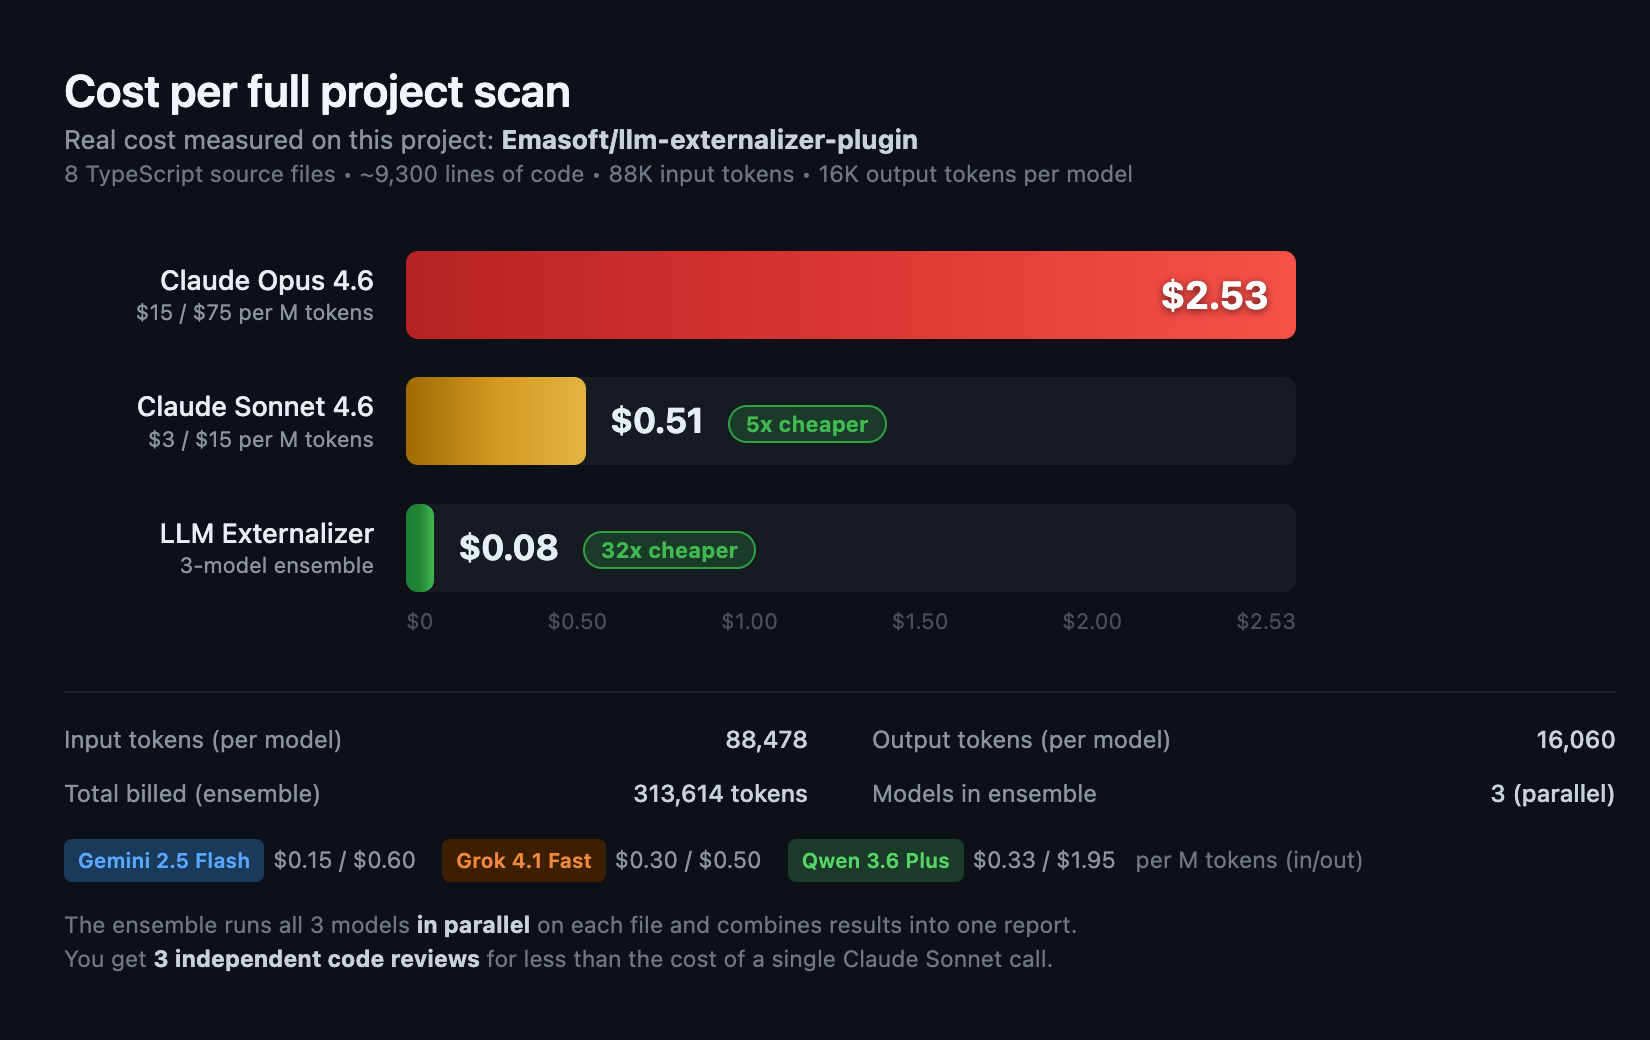
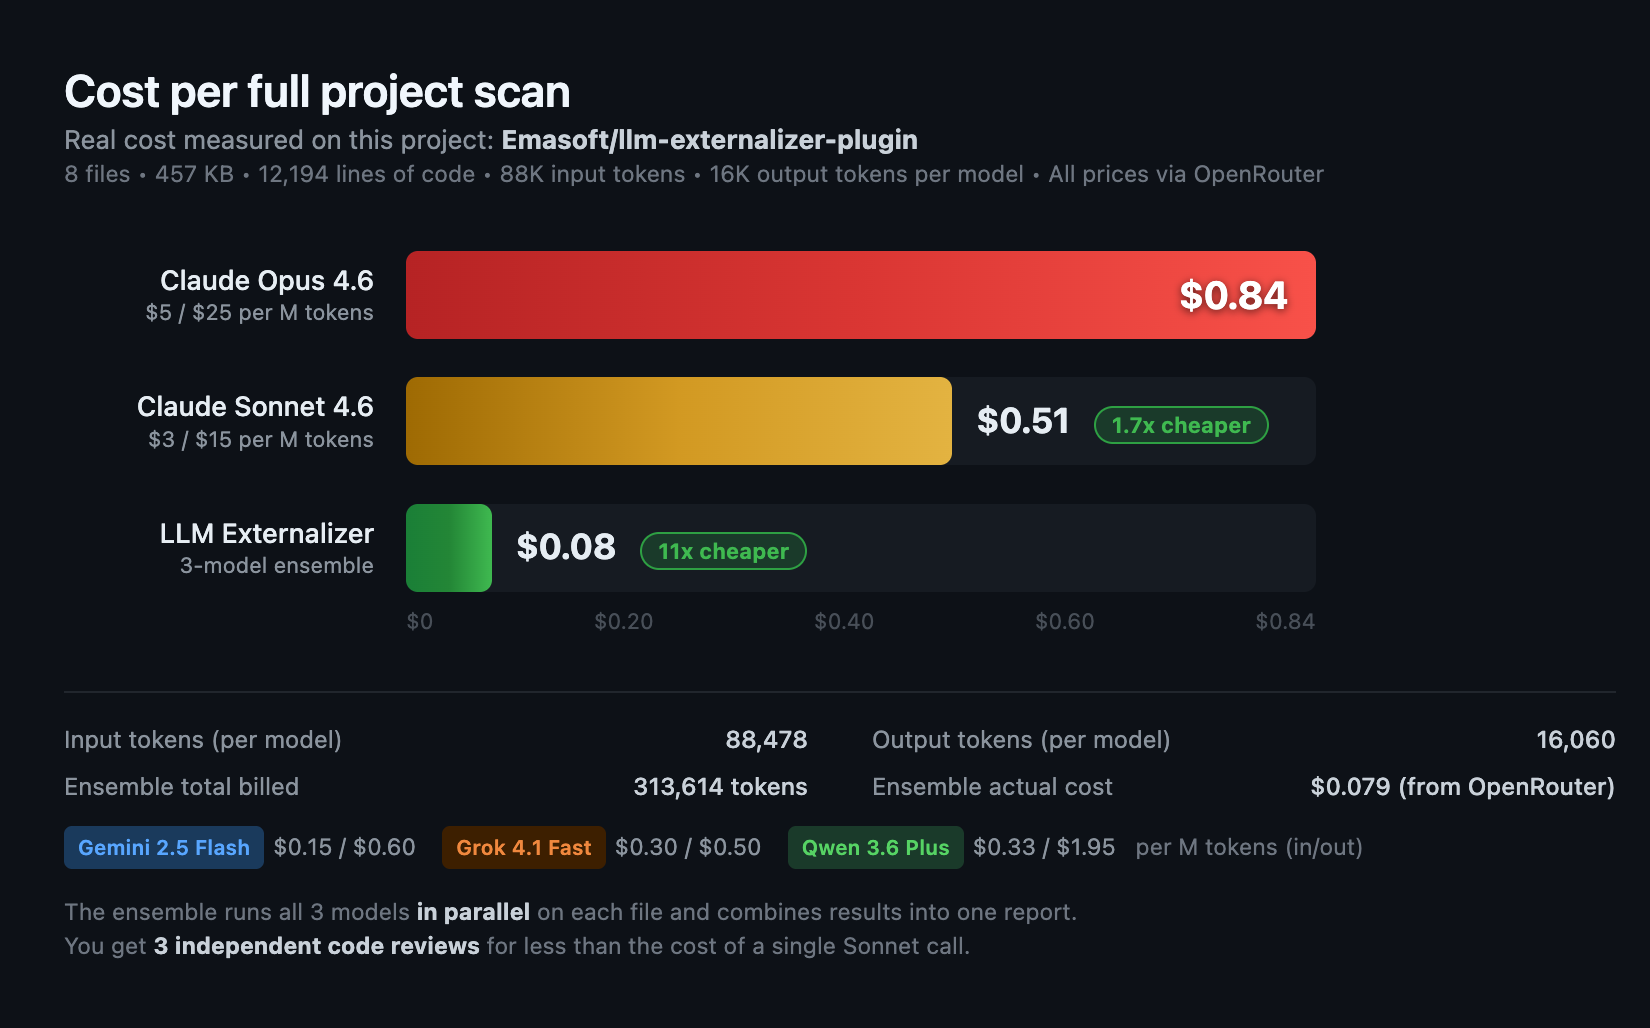
Fix cost chart: correct OpenRouter prices, move to top of README
Opus is $5/$25 on OpenRouter (not $15/$75 Anthropic direct).
Chart now shows file count, total KB, and actual ensemble cost
from OpenRouter billing. Moved chart to top of README under description.

diff --git a/README.md b/README.md
@@ -11,6 +11,10 @@
 
 A Claude Code plugin that offloads bounded LLM tasks to cheaper local or remote models via MCP. Supports local backends (LM Studio, Ollama, vLLM, llama.cpp) and remote backends (OpenRouter) with profile-based configuration and ensemble mode.
 
+### Cost comparison
+
+![Cost comparison: Opus $0.84, Sonnet $0.51, Ensemble $0.08](docs/cost_comparison.png)
+
 ## Features
 
 - **13 MCP tools** — 8 read-only analysis tools + 5 utility tools
@@ -99,10 +103,6 @@ Each group produces its own report: `[group:auth] /path/to/report_group-auth_...
 ### Ensemble mode
 
 On OpenRouter (`remote-ensemble` profile), requests run on **three models in parallel** with results combined in one report. If one or two models fail (removed, rate-limited, timed out), the report includes results from the surviving models — only errors if all three fail.
-
-#### Cost comparison
-
-![Cost comparison: Opus $2.53, Sonnet $0.51, Ensemble $0.08](docs/cost_comparison.png)
 
 **Default ensemble models:**
 
